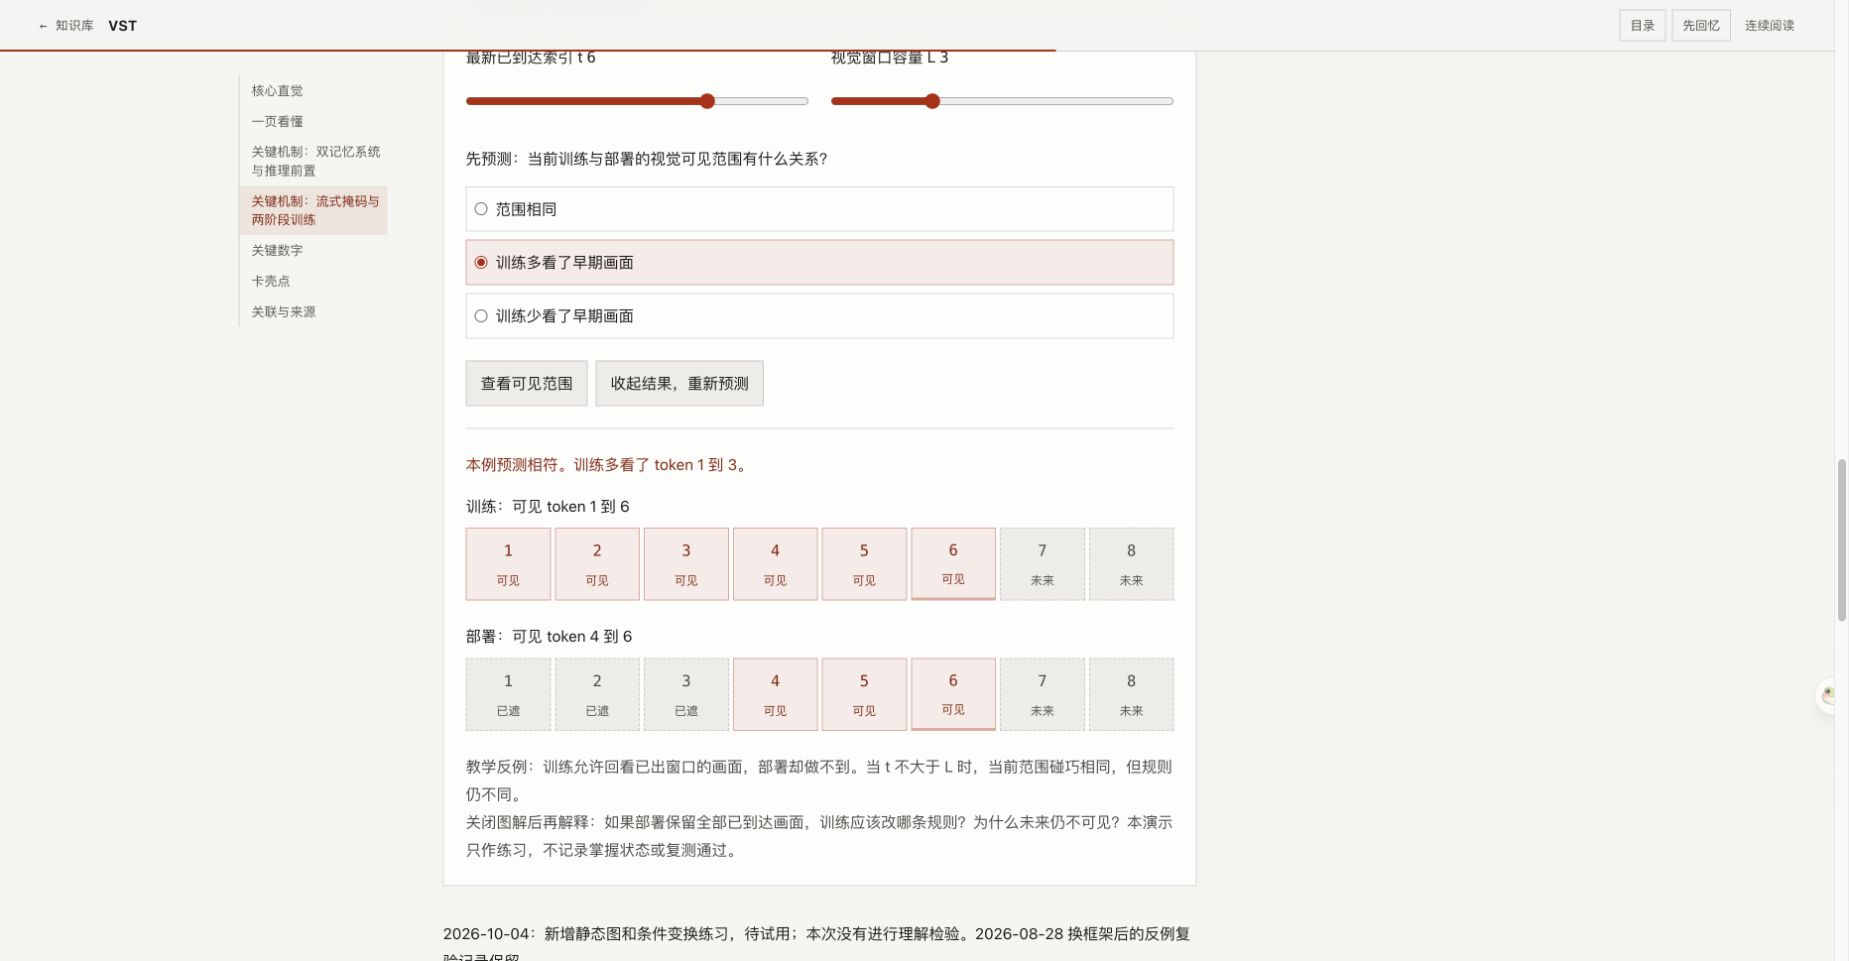
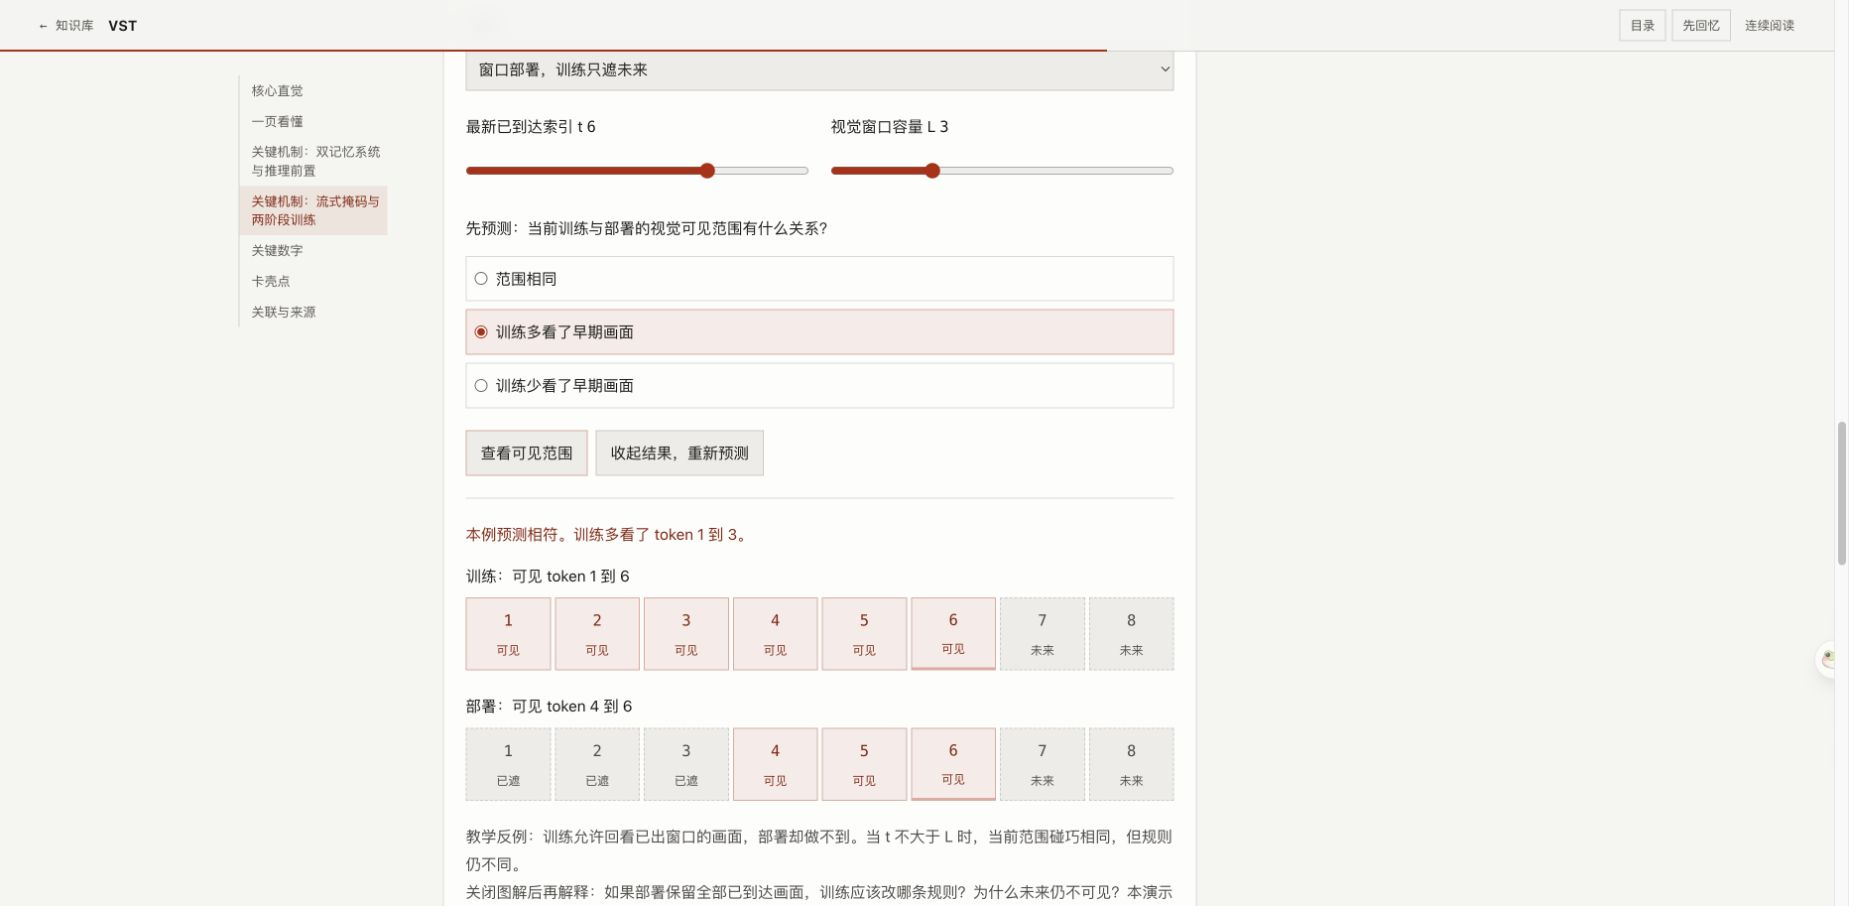
Record verified rollout of explanation workflow

diff --git a/log.md b/log.md
@@ -455,3 +455,7 @@
 - 按用户授权更新 schema、入库/复测命令、四类笔记和阅读层模板；落实中文写作约束、按难点选形式、关闭提示后的迁移检验与练习不计复测。
 - VST 增加真源规则表、同源静态图及四场景可见性练习；修正 PPO 的硬限位器类比，同步两层 HTML、搜索索引与全站缓存版本。review.md 与用户原话保持原样。
 - 站点检查含 C14 全通过，HTTP 浏览器完成场景/边界/回忆/手机/无脚本验证；file:// 因浏览器安全策略未实测，静态路径已核对。部署脚本改为范围内提交。
+
+## [2026-10-04] query | 讲解流程优化部署核验
+
+实施提交 3141db8 已推送，VPS 同步到同一提交；登录线上 VST 页确认资源版本 20261004-1、新练习与预测结果生效。实施记录保存线上截图，学习效果仍待用户试用验证。
